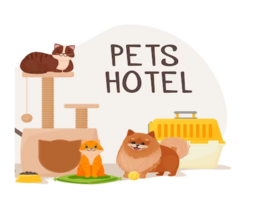
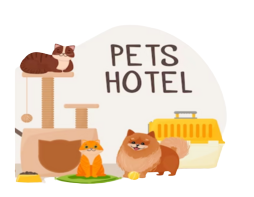
servicos

diff --git a/index.html b/index.html
@@ -62,17 +62,17 @@
 
                <li class="item selecionado" id="veterinario" data-name="Veterinario" 
                data-description="O médico veterinário é o profissional que atua pela saúde e pelo bem-estar dos animais, alguns dos serviços de um veterinário é Realizar e interpretar resultados exame clínico de animais, diagnosticar patologias, prescrever tratamento, indicar medidas de proteção e prevenção, entre outros">
-                    <img src="./src/imagens/doc.jpg" alt="">
+                    <img src="./src/imagens/doc.png" alt="">
                 </li>
 
                 <li class="item" id="petshop" data-name="PetShop" 
                 data-description='Pet shop ou loja de animais é um estabelecimento comercial especializado em vender animais, geralmente filhotes, destinados a serem animais de estimação, bem como alimentos, acessórios e artigos para entusiastas, além de oferecer serviços de embelezamento como banho, tosa e perfumaria.'>
-                    <img src="./src/imagens/shop.jpg" alt="">
+                    <img src="./src/imagens/shop.png" alt="">
                 </li>
 
                 <li class="item" id="domicilio" data-name="Atendimento a domicilio" 
                 data-description="O atendimento a domicílio para pets é uma opção que traz conforto e tranquilidade para os tutores de animais domésticos. Com veterinários profissionais indo até sua casa, seus animais recebem cuidados de qualidade no ambiente familiar, reduzindo o estresse.">
-                    <img src="./src/imagens/home.jpg" alt="">
+                    <img src="./src/imagens/home.png" alt="">
                 </li>
 
                 <li class="item" id="escola" data-name="Hoteis para pet's" 

diff --git a/src/css/responsivo.css b/src/css/responsivo.css
@@ -48,9 +48,6 @@
         margin: 0 auto;
         width: 100%;
     }
-    .selecao-do-servico .itens{
-        margin-top: 37px;
-    }
     .selecao-do-servico .itens .titulo{
         font-size: 15px;
     }
@@ -59,7 +56,7 @@
         padding-left: 35px;
     }
     .selecao-do-servico .item img{
-        width: 130px;
+        width: 140px;
     }
     .item-selecionado .descricao-item{
         width: 80%;
